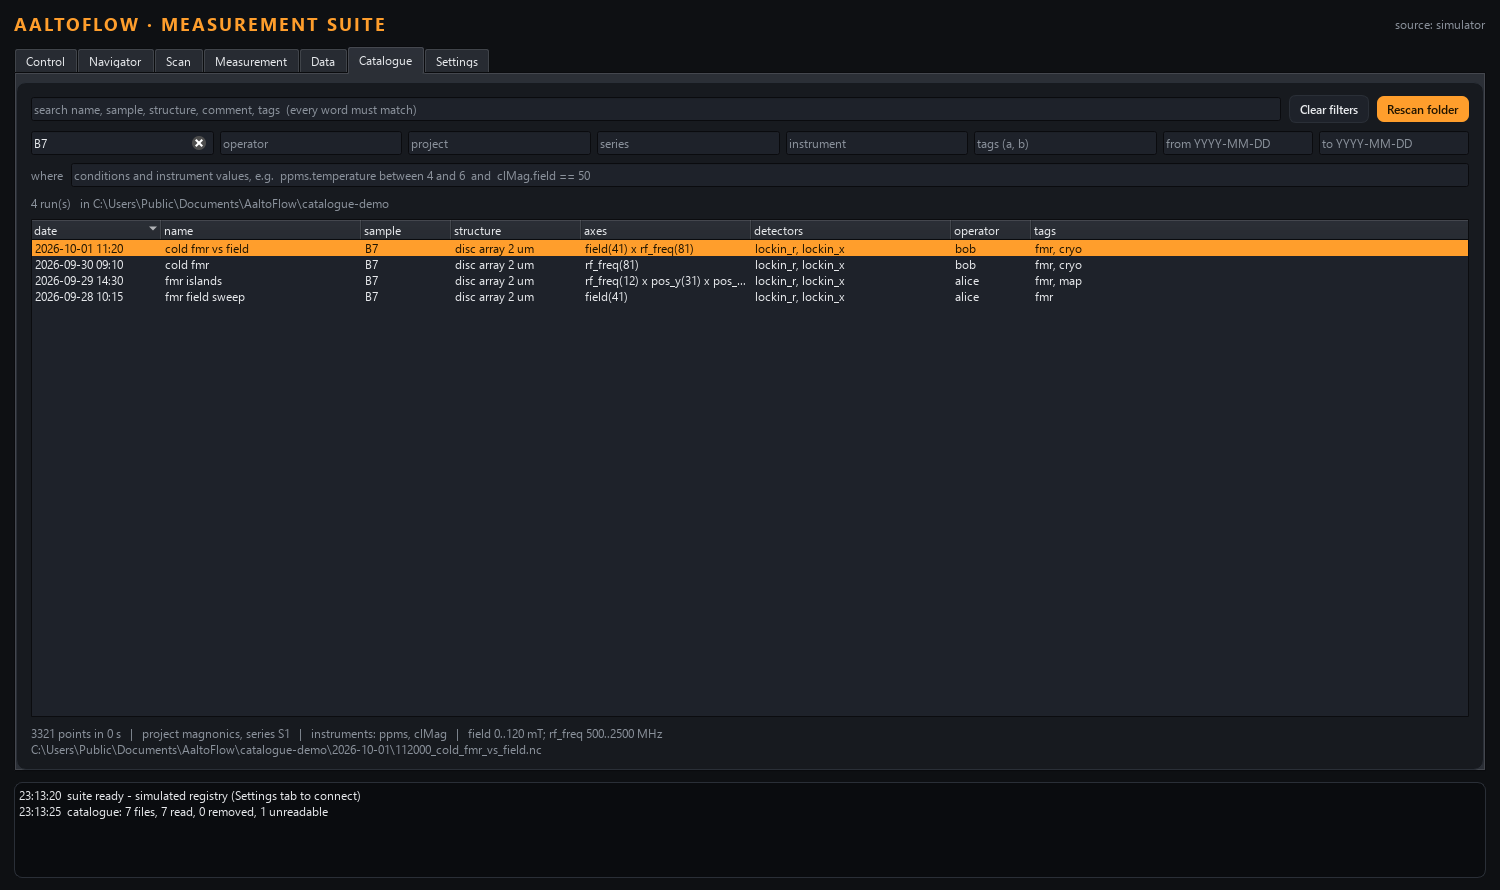
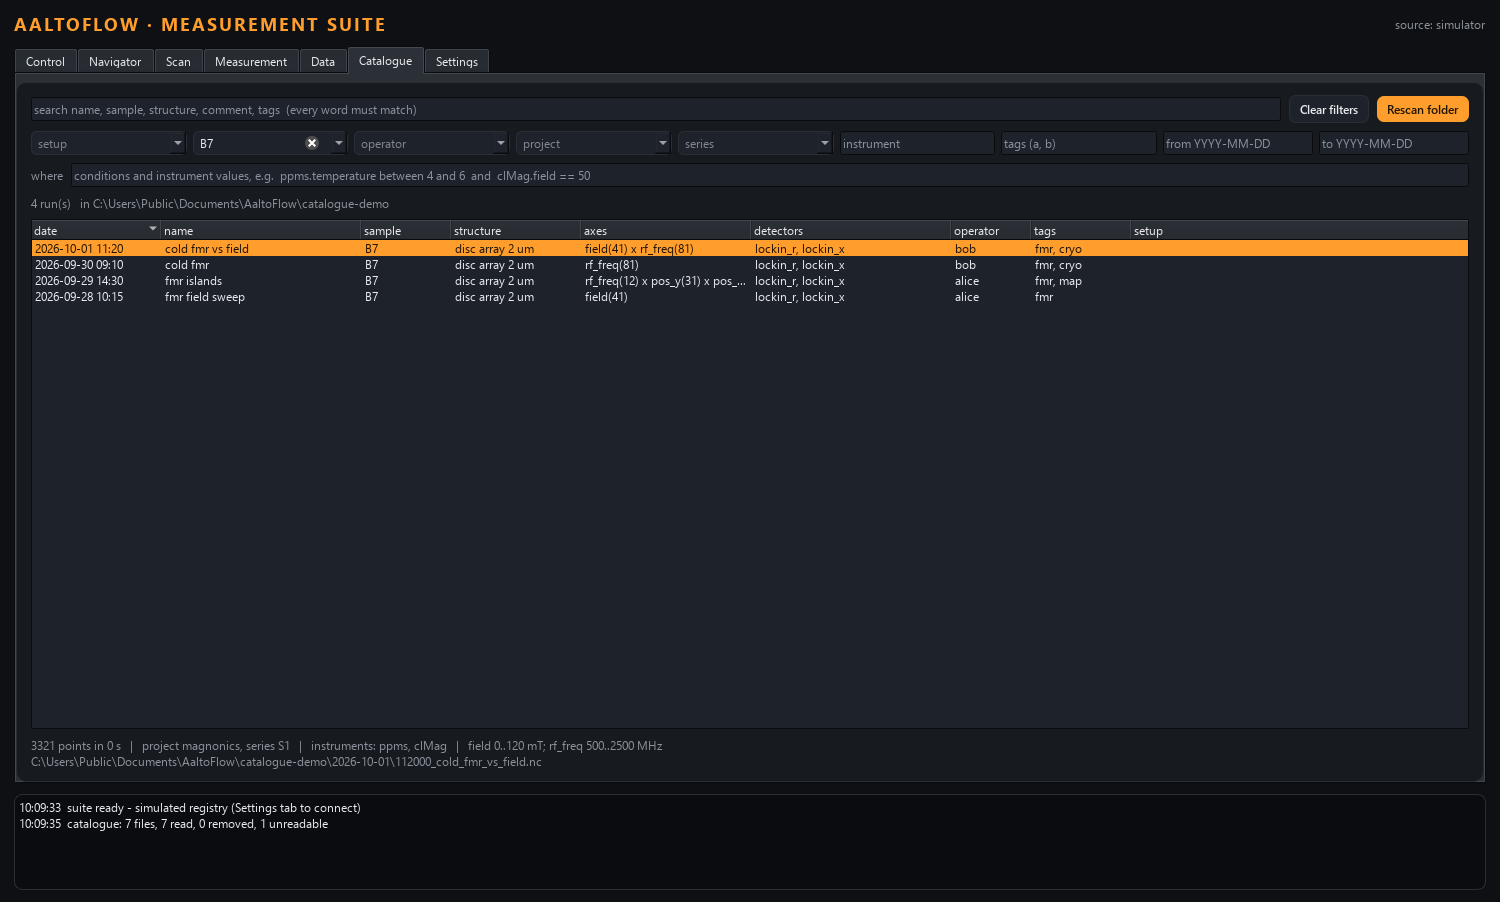
Catalogue: Setup filter + pick lists; Catalogue and Setup name buttons in Mission Control
Lukas, 2026-10-05:
- The catalogue searches by SETUP (setup_name, from the installation) and
  offers setup / sample / operator / project / series as drop-downs of the
  values the files hold (still typeable). It already reads the data folder
  recursively.
- Mission Control: a 'Catalogue' button opens the catalogue in its own
  window (apps/catalogue.py; double-click opens the run in the data viewer),
  and 'Setup name...' sets the setup's name -- a PC set up from a checkout
  never ran the installer that asks for it.

diff --git a/mission-control/mission_control.py b/mission-control/mission_control.py
@@ -42,7 +42,7 @@ from pathlib import Path
 
 from PySide6 import QtCore, QtGui, QtWidgets
 
-from suite_common import get_setting, set_setting
+from suite_common import get_setting, set_setting, set_setup_name
 from suite_common import hwlock
 from suite_common import secure
 from suite_common import instruments as finder
@@ -258,6 +258,7 @@ SUITE_SCRIPT = "apps/suite.py"
 #: The data viewer (AaltoView's successor) lives in scan-core too. It reads files
 #: and talks to no instrument, so it can be open while nothing else runs.
 VIEWER_SCRIPT = "apps/viewer.py"
+CATALOGUE_SCRIPT = "apps/catalogue.py"
 
 
 def build_command(project_dir: Path, script: str, extra: list[str], gui: bool,
@@ -2042,13 +2043,15 @@ class MainWindow(QtWidgets.QMainWindow):
         self.prober = Prober(self.bridge)
         self.suite_proc: QtCore.QProcess | None = None   # scan-core, opened at most once
         self.viewer_proc: QtCore.QProcess | None = None  # the data viewer, likewise
+        self.catalogue_proc: QtCore.QProcess | None = None  # the run catalogue, likewise
 
         # header
         header = QtWidgets.QHBoxLayout()
         tbox = QtWidgets.QVBoxLayout(); tbox.setSpacing(2)
         title = QtWidgets.QLabel(suite_title("Mission Control").upper()); title.setObjectName("title")
-        title.setToolTip("The setup name comes from the installer (re-run Setup to change it,\n"
-                         "or edit settings.setup_name in suite_local.json).")
+        title.setToolTip("The setup name (e.g. TR-MOKE, VNA-FMR): set it with 'Setup name...'.\n"
+                         "Every data file records it, and the Catalogue can filter by it.")
+        self.title_lbl = title
         # the product name moves to the subtitle once a setup name leads the title
         lead = f"{PRODUCT} · " if setup_name() else ""
         sub = QtWidgets.QLabel(lead + "finds the modules · starts services · opens GUIs")
@@ -2080,11 +2083,18 @@ class MainWindow(QtWidgets.QMainWindow):
         self.viewer_btn.setToolTip("scan-core: look at saved measurements -- maps, 1-D "
                                    "overlays, export to files, Origin and Jupyter.")
         self.viewer_btn.clicked.connect(self.open_viewer)
+        self.catalogue_btn = QtWidgets.QPushButton("  Catalogue")
+        self.catalogue_btn.setIcon(self.style().standardIcon(
+            QtWidgets.QStyle.SP_FileDialogContentsView))
+        self.catalogue_btn.setToolTip("scan-core: search every saved run -- by setup, sample, "
+                                      "operator, project, tags, date or instrument values "
+                                      "(e.g. ppms.temperature between 4 and 6).")
+        self.catalogue_btn.clicked.connect(self.open_catalogue)
         stop_all = QtWidgets.QPushButton("  Stop all"); stop_all.setObjectName("danger")
         stop_all.setIcon(self.style().standardIcon(QtWidgets.QStyle.SP_MediaStop))
         stop_all.clicked.connect(self.stop_all)
         bar.addWidget(start_all); bar.addWidget(guis_all); bar.addWidget(self.suite_btn)
-        bar.addWidget(self.viewer_btn)
+        bar.addWidget(self.viewer_btn); bar.addWidget(self.catalogue_btn)
         bar.addStretch(1); bar.addWidget(stop_all)
         col.addLayout(bar)
 
@@ -2147,7 +2157,11 @@ class MainWindow(QtWidgets.QMainWindow):
         self.sec_badge.setToolTip("The lab's security policy as this PC reads it "
                                   "(Security… to change it)")
         mrow.addWidget(rescan); mrow.addWidget(inst); mrow.addWidget(add_mod); mrow.addWidget(add)
-        mrow.addWidget(exp); mrow.addWidget(imp)
+        setup_btn = QtWidgets.QPushButton("Setup name…")
+        setup_btn.setToolTip("Name this setup (TR-MOKE, VNA-FMR ...). Every scan file records it,\n"
+                             "and the Catalogue can search by it.")
+        setup_btn.clicked.connect(lambda: self.edit_setup_name())
+        mrow.addWidget(exp); mrow.addWidget(imp); mrow.addWidget(setup_btn)
         mrow.addWidget(sec); mrow.addWidget(self.sec_badge)
         col.addLayout(mrow)
 
@@ -2415,6 +2429,30 @@ class MainWindow(QtWidgets.QMainWindow):
     # suite_common.settings_bundle, where it is tested without Qt. Here there are
     # only file dialogs, a confirmation and log lines.
 
+    def edit_setup_name(self, name: str | None = None) -> str | None:
+        """Ask for (or set, in tests) this setup's name; '' clears it.
+
+        Why a button (Lukas, 2026-10-05): the Catalogue filters runs by setup,
+        and a PC set up from a git checkout never ran the installer that asks
+        for it -- its files carried no setup at all. The measurement suite and
+        the other windows read the new name when they next start."""
+        if name is None:
+            text, ok = QtWidgets.QInputDialog.getText(
+                self, "Setup name",
+                "Name of this setup (e.g. TR-MOKE, VNA-FMR).\n"
+                "Every scan file records it; the Catalogue filters by it.\n"
+                "Empty = no setup name.",
+                text=setup_name() or "")
+            if not ok:
+                return None
+            name = text
+        name = (name or "").strip()
+        set_setup_name(name or None, ROOT)
+        self.title_lbl.setText(suite_title("Mission Control").upper())
+        self.setWindowTitle(suite_title("Mission Control"))
+        self.log(f"setup name: {name or '(none)'} -- open windows pick it up when they restart")
+        return name
+
     def export_settings(self, path: str | None = None) -> Path | None:
         """Write this PC's settings into one .zip. `path` skips the file dialog."""
         if path is None:
@@ -2605,6 +2643,12 @@ class MainWindow(QtWidgets.QMainWindow):
         """Open the data viewer (one instance). It needs no running service."""
         self.viewer_proc = self._open_app(VIEWER_SCRIPT, "viewer", "data viewer",
                                           self.viewer_proc)
+
+    def open_catalogue(self):
+        """Open the run catalogue (one instance): search saved runs; a
+        double-click opens one in the data viewer. Needs no running service."""
+        self.catalogue_proc = self._open_app(CATALOGUE_SCRIPT, "catalogue", "catalogue",
+                                             self.catalogue_proc)
 
     def _open_app(self, script: str, tag: str, what: str,
                   running: QtCore.QProcess | None) -> QtCore.QProcess | None:

diff --git a/scan-core/apps/catalogue_view.py b/scan-core/apps/catalogue_view.py
@@ -37,10 +37,14 @@ from apps.theme import C
 COLUMNS = [("date", "created"), ("name", "name"), ("sample", "sample"),
            ("structure", "structure"), ("axes", "dims_text"),
            ("detectors", "detectors_text"), ("operator", "operator"),
-           ("tags", "tags_text")]
+           ("tags", "tags_text"), ("setup", "setup_name")]
+
+#: filters offered as a drop-down of the values the catalogue holds
+PICK_FIELDS = ("setup", "sample", "operator", "project", "series")
 
 #: the filter fields in the second row: (attribute, placeholder, search kwarg)
-FILTERS = [("sample_edit", "sample", "sample"),
+FILTERS = [("setup_edit", "setup", "setup"),
+           ("sample_edit", "sample", "sample"),
            ("operator_edit", "operator", "operator"),
            ("project_edit", "project", "project"),
            ("series_edit", "series", "series"),
@@ -97,12 +101,30 @@ class CatalogueWidget(QtWidgets.QWidget):
 
         # row 2: field filters + the date range
         r2 = QtWidgets.QHBoxLayout(); r2.setSpacing(6)
-        for attr, placeholder, _kw in FILTERS:
-            edit = QtWidgets.QLineEdit()
+        # setup / sample / operator / project / series are PICK LISTS of the
+        # values the files really hold (Lukas, 2026-10-05: "offer the Setup,
+        # User, Sample in a list"), still typeable to narrow. The attribute
+        # is the combo's line edit, so typing, clearing and the debounce work
+        # exactly as for the plain fields.
+        self._picks = {}
+        for attr, placeholder, kw in FILTERS:
+            if kw in PICK_FIELDS:
+                box = QtWidgets.QComboBox()
+                box.setEditable(True)
+                box.setInsertPolicy(QtWidgets.QComboBox.NoInsert)
+                box.setMinimumContentsLength(8)
+                box.setSizeAdjustPolicy(QtWidgets.QComboBox.AdjustToMinimumContentsLengthWithIcon)
+                edit = box.lineEdit()
+                box.setToolTip(f"{placeholder}: pick one of the values in your files, "
+                               f"or type part of one")
+                self._picks[kw] = box
+                widget = box
+            else:
+                edit = widget = QtWidgets.QLineEdit()
             edit.setPlaceholderText(placeholder)
             edit.setClearButtonEnabled(True)
             setattr(self, attr, edit)
-            r2.addWidget(edit, 1)
+            r2.addWidget(widget, 1)
         self.from_edit = QtWidgets.QLineEdit(); self.from_edit.setPlaceholderText("from YYYY-MM-DD")
         self.to_edit = QtWidgets.QLineEdit(); self.to_edit.setPlaceholderText("to YYYY-MM-DD")
         for e in (self.from_edit, self.to_edit):
@@ -269,7 +291,24 @@ class CatalogueWidget(QtWidgets.QWidget):
         if result["read"] or result["removed"]:
             self.on_log(f"catalogue: {result['files']} files, {result['read']} read, "
                         f"{result['removed']} removed, {result['errors']} unreadable")
+        self.fill_picks()
         self.refresh()
+
+    def fill_picks(self) -> None:
+        """Refill the drop-downs with the values the catalogue holds now,
+        keeping what is typed or chosen. The first entry is empty = any."""
+        for kw, box in self._picks.items():
+            try:
+                values = cat.distinct(self.data_dir, kw)
+            except Exception:
+                continue
+            keep = box.lineEdit().text()
+            box.blockSignals(True)
+            box.clear()
+            box.addItem("")
+            box.addItems(values)
+            box.lineEdit().setText(keep)
+            box.blockSignals(False)
 
     # ---- searching ---------------------------------------------------------
 

diff --git a/scan-core/apps/catalogue.py b/scan-core/apps/catalogue.py
@@ -1,0 +1,93 @@
+"""catalogue.py -- the run catalogue in a window of its own.
+
+Mission Control's "Catalogue" button opens this (Lukas, 2026-10-05: "mission
+control should have a button for a database"): search every run in the data
+folder without opening the measurement suite. It is the same widget as the
+suite's Catalogue tab (apps/catalogue_view.py); a double-click opens the run
+in the data viewer (apps/viewer.py, a separate window).
+
+    uv run python apps/catalogue.py [--folder DIR] [--theme light]
+
+The folder is the one the measurement suite saves into (remembered in
+suite_local.json, set on its Settings tab), unless --folder says otherwise.
+"""
+
+from __future__ import annotations
+
+import argparse
+import subprocess
+import sys
+from pathlib import Path
+
+sys.path.insert(0, str(Path(__file__).resolve().parent.parent))  # find scan_core
+
+from PySide6 import QtWidgets  # noqa: E402
+
+from suite_common import get_setting, title as suite_title  # noqa: E402
+
+from apps.theme import DEFAULT_THEME, apply, set_theme  # noqa: E402
+
+VIEWER = Path(__file__).resolve().parent / "viewer.py"
+
+
+def default_folder() -> Path:
+    """The measurement suite's data folder, as the suite resolves it."""
+    return Path(get_setting("data_dir")
+                or Path(__file__).resolve().parent.parent / "out")
+
+
+def open_in_viewer(path) -> subprocess.Popen | None:
+    """Open one file in the data viewer, a window of its own (this process
+    does not wait for it)."""
+    try:
+        return subprocess.Popen([sys.executable, str(VIEWER), str(path)])
+    except OSError:
+        return None
+
+
+class CatalogueWindow(QtWidgets.QMainWindow):
+    def __init__(self, folder=None, open_file=None):
+        super().__init__()
+        from apps.catalogue_view import CatalogueWidget
+        self.setWindowTitle(suite_title("Catalogue"))
+        self.resize(1400, 860)
+        self.log_box = QtWidgets.QPlainTextEdit()
+        self.log_box.setReadOnly(True)
+        self.log_box.setMaximumHeight(110)
+        self.catalogue = CatalogueWidget(data_dir=Path(folder or default_folder()),
+                                         open_file=open_file or open_in_viewer,
+                                         on_log=self.log_box.appendPlainText)
+        root = QtWidgets.QWidget()
+        v = QtWidgets.QVBoxLayout(root)
+        v.setContentsMargins(14, 12, 14, 12)
+        v.addWidget(self.catalogue, 1)
+        v.addWidget(self.log_box)
+        self.setCentralWidget(root)
+
+    def closeEvent(self, event):
+        # a rescan still running in its thread: let it stop before the window goes
+        try:
+            self.catalogue._cancel.set()
+        except Exception:
+            pass
+        super().closeEvent(event)
+
+
+def main(argv=None) -> int:
+    ap = argparse.ArgumentParser(description="AaltoFlow run catalogue")
+    ap.add_argument("--folder", default=None, help="data folder to search "
+                    "(default: the measurement suite's)")
+    ap.add_argument("--theme", choices=["dark", "light"], default=None)
+    args = ap.parse_args(argv)
+    set_theme(args.theme or DEFAULT_THEME)        # BEFORE any widget is built
+    app = QtWidgets.QApplication.instance() or QtWidgets.QApplication([])
+    from apps.theme import apply_window_icon
+    apply_window_icon(app)
+    apply(app)
+    win = CatalogueWindow(args.folder)
+    win.show()
+    return app.exec()
+
+
+if __name__ == "__main__":
+    raise SystemExit(main())

diff --git a/scan-core/scan_core/catalogue.py b/scan-core/scan_core/catalogue.py
@@ -702,7 +702,7 @@ def _day(v, end: bool = False) -> str | None:
 
 
 def search(data_dir, text=None, sample=None, operator=None, project=None,
-           tags=None, series=None, instrument=None, detector=None,
+           tags=None, series=None, instrument=None, detector=None, setup=None,
            date_from=None, date_to=None, where=None, limit: int | None = None,
            include_errors: bool = True) -> list[dict]:
     """Find runs in the index of `data_dir`, newest first.
@@ -710,6 +710,8 @@ def search(data_dir, text=None, sample=None, operator=None, project=None,
     text      : words; EVERY word must appear somewhere in name, sample,
                 structure, comment, tags or the file name (case-insensitive)
     sample, operator, project, series : "contains", case-insensitive
+    setup     : the SETUP the file was measured on (attribute setup_name, set by
+                the installer: "TR-MOKE", "VNA-FMR" ...); "contains", any case
     tags      : a list or "a, b": the run must carry EVERY tag (exact, any case)
     instrument: a module slug (from the snapshot, or from the parameter ids of
                 an older file)
@@ -730,7 +732,8 @@ def search(data_dir, text=None, sample=None, operator=None, project=None,
                       "relpath")) + ")")
         params += [like] * 6
     for col, val in (("sample", sample), ("operator", operator),
-                     ("project", project), ("series", series)):
+                     ("project", project), ("series", series),
+                     ("setup_name", setup)):
         if val:
             sql.append(f"AND COALESCE({col},'') LIKE ? ESCAPE '\\'")
             params.append(f"%{_like_escape(str(val).strip())}%")
@@ -800,7 +803,9 @@ def snapshot_of(data_dir, path) -> dict:
 
 def distinct(data_dir, column: str) -> list[str]:
     """The values a filter field has across the catalogue (for completers)."""
-    allowed = {"sample", "operator", "project", "series", "structure"}
+    allowed = {"sample", "operator", "project", "series", "structure", "setup_name"}
+    if column == "setup":
+        column = "setup_name"
     root = Path(data_dir)
     if column == "instrument":
         q = "SELECT DISTINCT slug FROM instruments ORDER BY slug COLLATE NOCASE"

diff --git a/scan-core/tests/test_catalogue_view.py b/scan-core/tests/test_catalogue_view.py
@@ -136,3 +136,38 @@ def test_the_suite_tab_opens_a_run_in_the_data_viewer(qapp, folder, tmp_path, mo
         assert cat_w.data_dir == other and cat_w.table.topLevelItemCount() == 0
     finally:
         win.close()
+
+
+def test_setup_sample_operator_are_pick_lists_of_the_values_present(tmp_path):
+    """Lukas, 2026-10-05: the catalogue offers Setup, User and Sample as lists."""
+    from scan_core import catalogue
+    from scan_core.autosave import write_dataset
+    from scan_core.engine import run
+    from scan_core.recipe import Recipe
+    from scan_core.registry import build_sim_registry
+    reg = build_sim_registry()
+    for k, (setup, sample, op) in enumerate([("TR-MOKE", "B7", "anna"),
+                                             ("VNA-FMR", "Y12", "ben"),
+                                             ("TR-MOKE", "B8", "anna")]):
+        r = Recipe(name=f"s{k}", axes=[{"type": "linear", "param": "field",
+                                        "start": 0, "stop": 1, "num": 2}],
+                   detectors=["lockin_r"])
+        ds = run(r, reg, attrs={"setup_name": setup, "sample": sample, "operator": op})
+        write_dataset(ds, tmp_path / "2026-10-05" / "sub" / f"12000{k}_s{k}.nc")  # a subfolder
+    catalogue.scan(tmp_path)
+    assert catalogue.distinct(tmp_path, "setup") == ["TR-MOKE", "VNA-FMR"]
+    assert len(catalogue.search(tmp_path, setup="tr-moke")) == 2
+
+    pytest.importorskip("PySide6")
+    from PySide6 import QtWidgets
+    QtWidgets.QApplication.instance() or QtWidgets.QApplication([])
+    from apps.catalogue_view import CatalogueWidget
+    w = CatalogueWidget(data_dir=tmp_path)
+    w.fill_picks()
+    box = w._picks["setup"]
+    assert [box.itemText(i) for i in range(box.count())] == ["", "TR-MOKE", "VNA-FMR"]
+    assert [w._picks["operator"].itemText(i) for i in range(w._picks["operator"].count())] == ["", "anna", "ben"]
+    box.setCurrentIndex(2)                       # choose VNA-FMR
+    w.refresh()
+    assert w.query()["setup"] == "VNA-FMR"
+    assert w.table.topLevelItemCount() == 1

diff --git a/mission-control/tests/test_launcher.py b/mission-control/tests/test_launcher.py
@@ -119,6 +119,20 @@ def test_measurement_suite_button_is_not_a_module_card(env):
     win.open_viewer()                      # the data viewer lives in scan-core too
     assert win.viewer_proc is None
     assert "no data viewer at" in win.logbox.toPlainText()
+    win.open_catalogue()                   # the run catalogue too (Lukas, 2026-10-05)
+    assert win.catalogue_proc is None
+    assert "no catalogue at" in win.logbox.toPlainText()
+
+
+def test_the_setup_name_is_set_from_the_window(env):
+    """Lukas, 2026-10-05: the Catalogue filters by setup, so it must be easy to
+    set -- not only by the installer."""
+    mc, win, root, app = env
+    assert win.edit_setup_name("VNA-FMR") == "VNA-FMR"
+    assert mc.setup_name() == "VNA-FMR"
+    assert win.title_lbl.text().startswith("VNA-FMR")
+    win.edit_setup_name("")
+    assert not mc.setup_name()                 # cleared ("" or None)
 
 
 def test_a_new_module_folder_appears_on_rescan(env):
